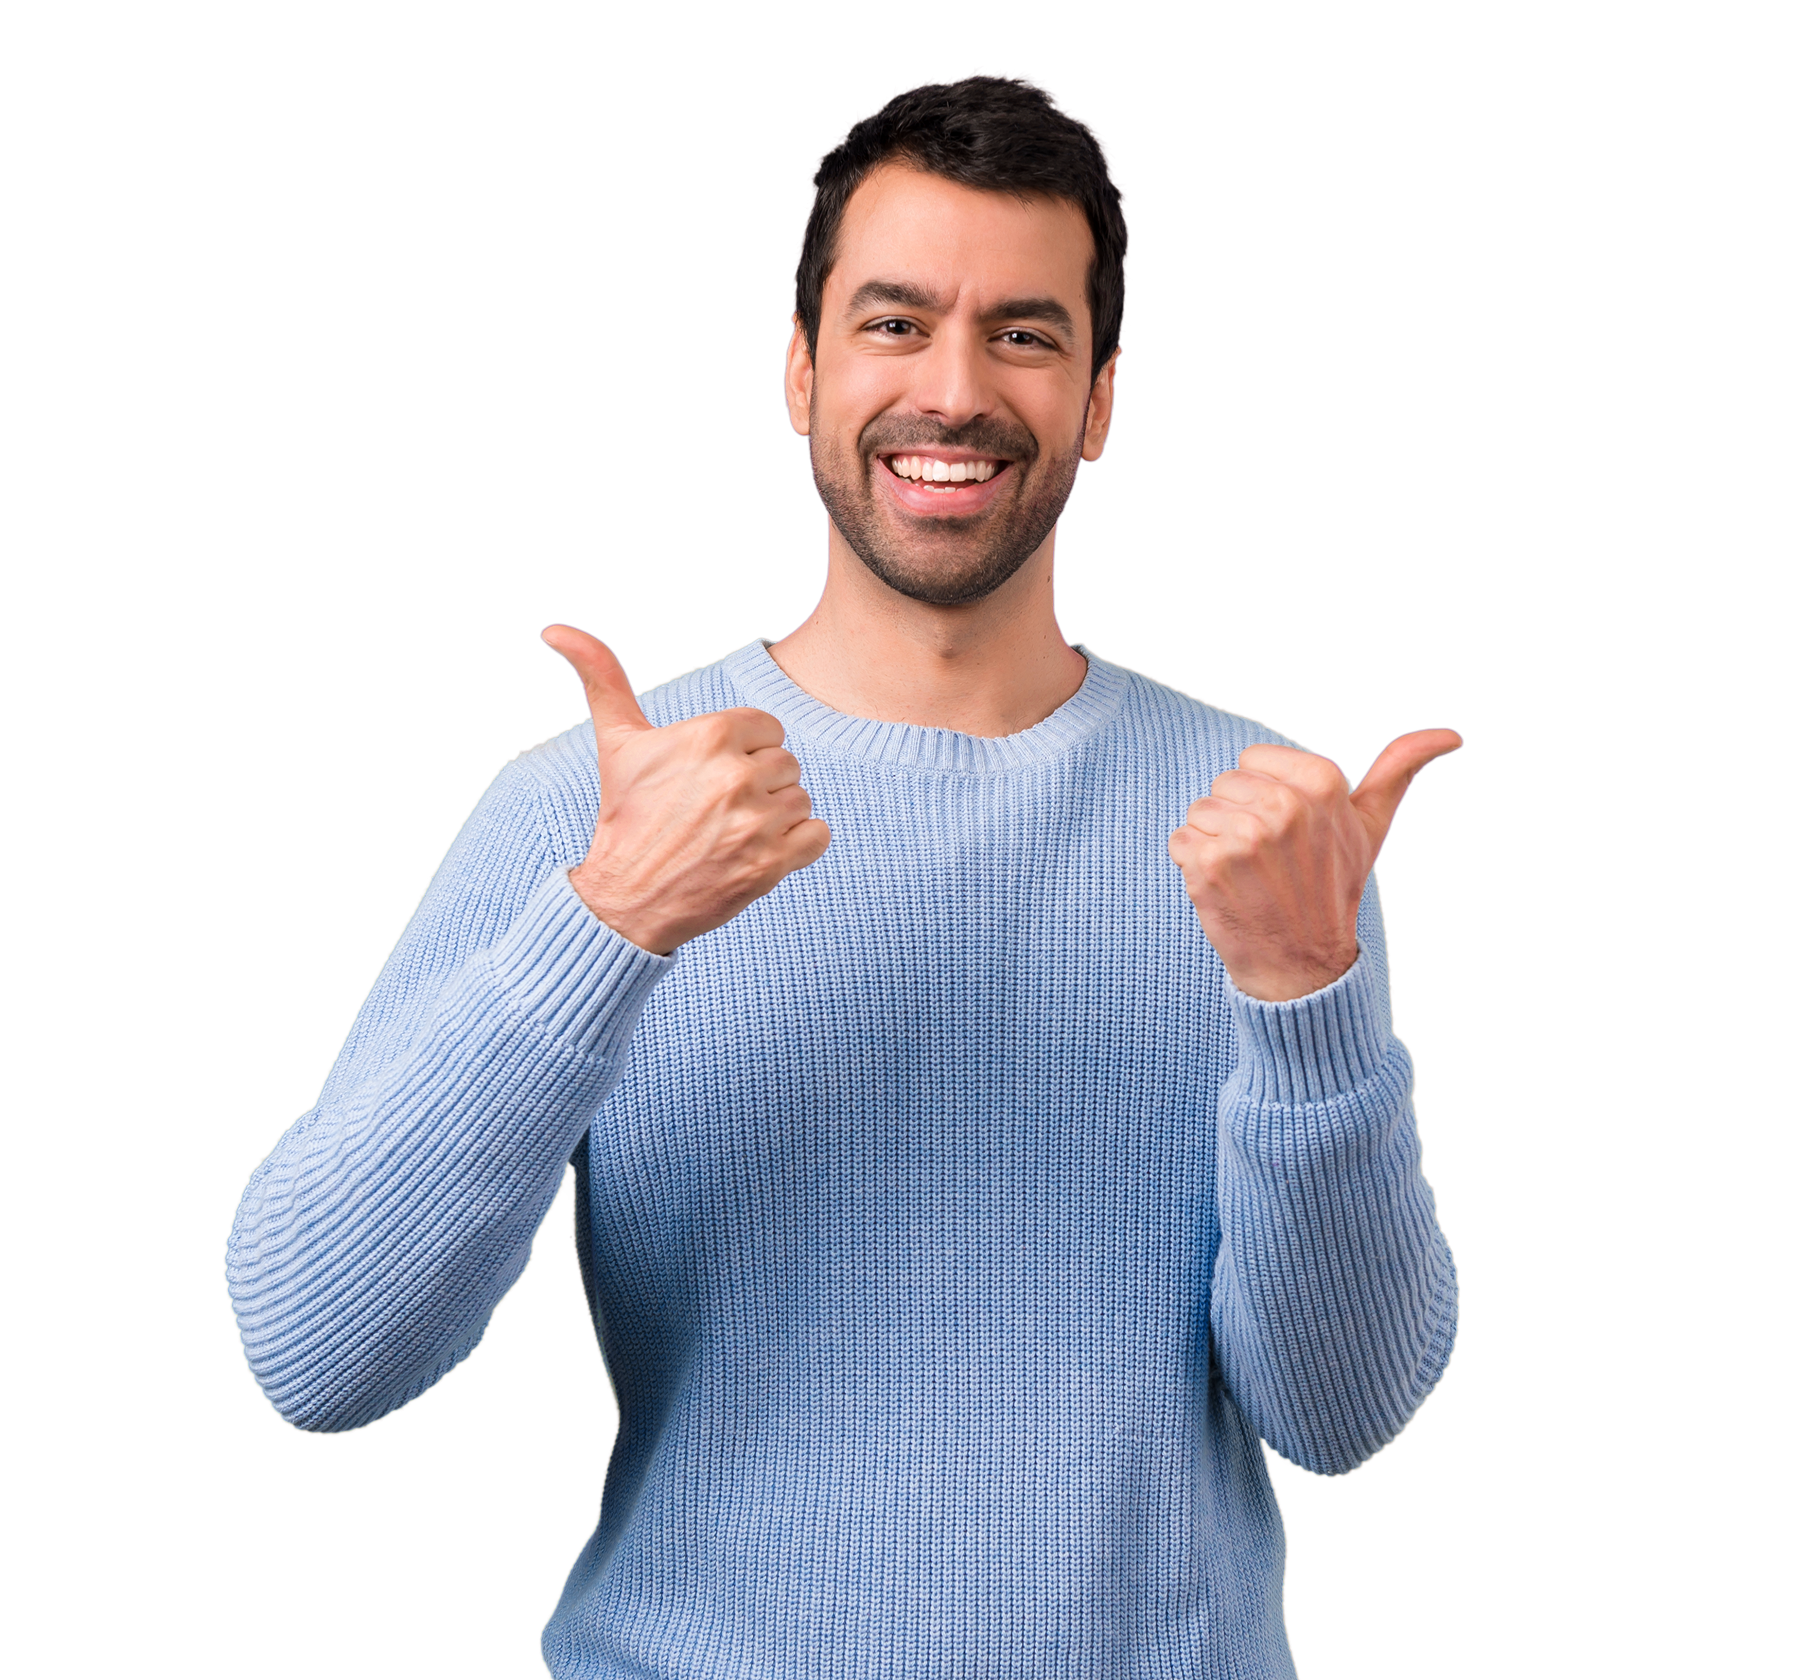
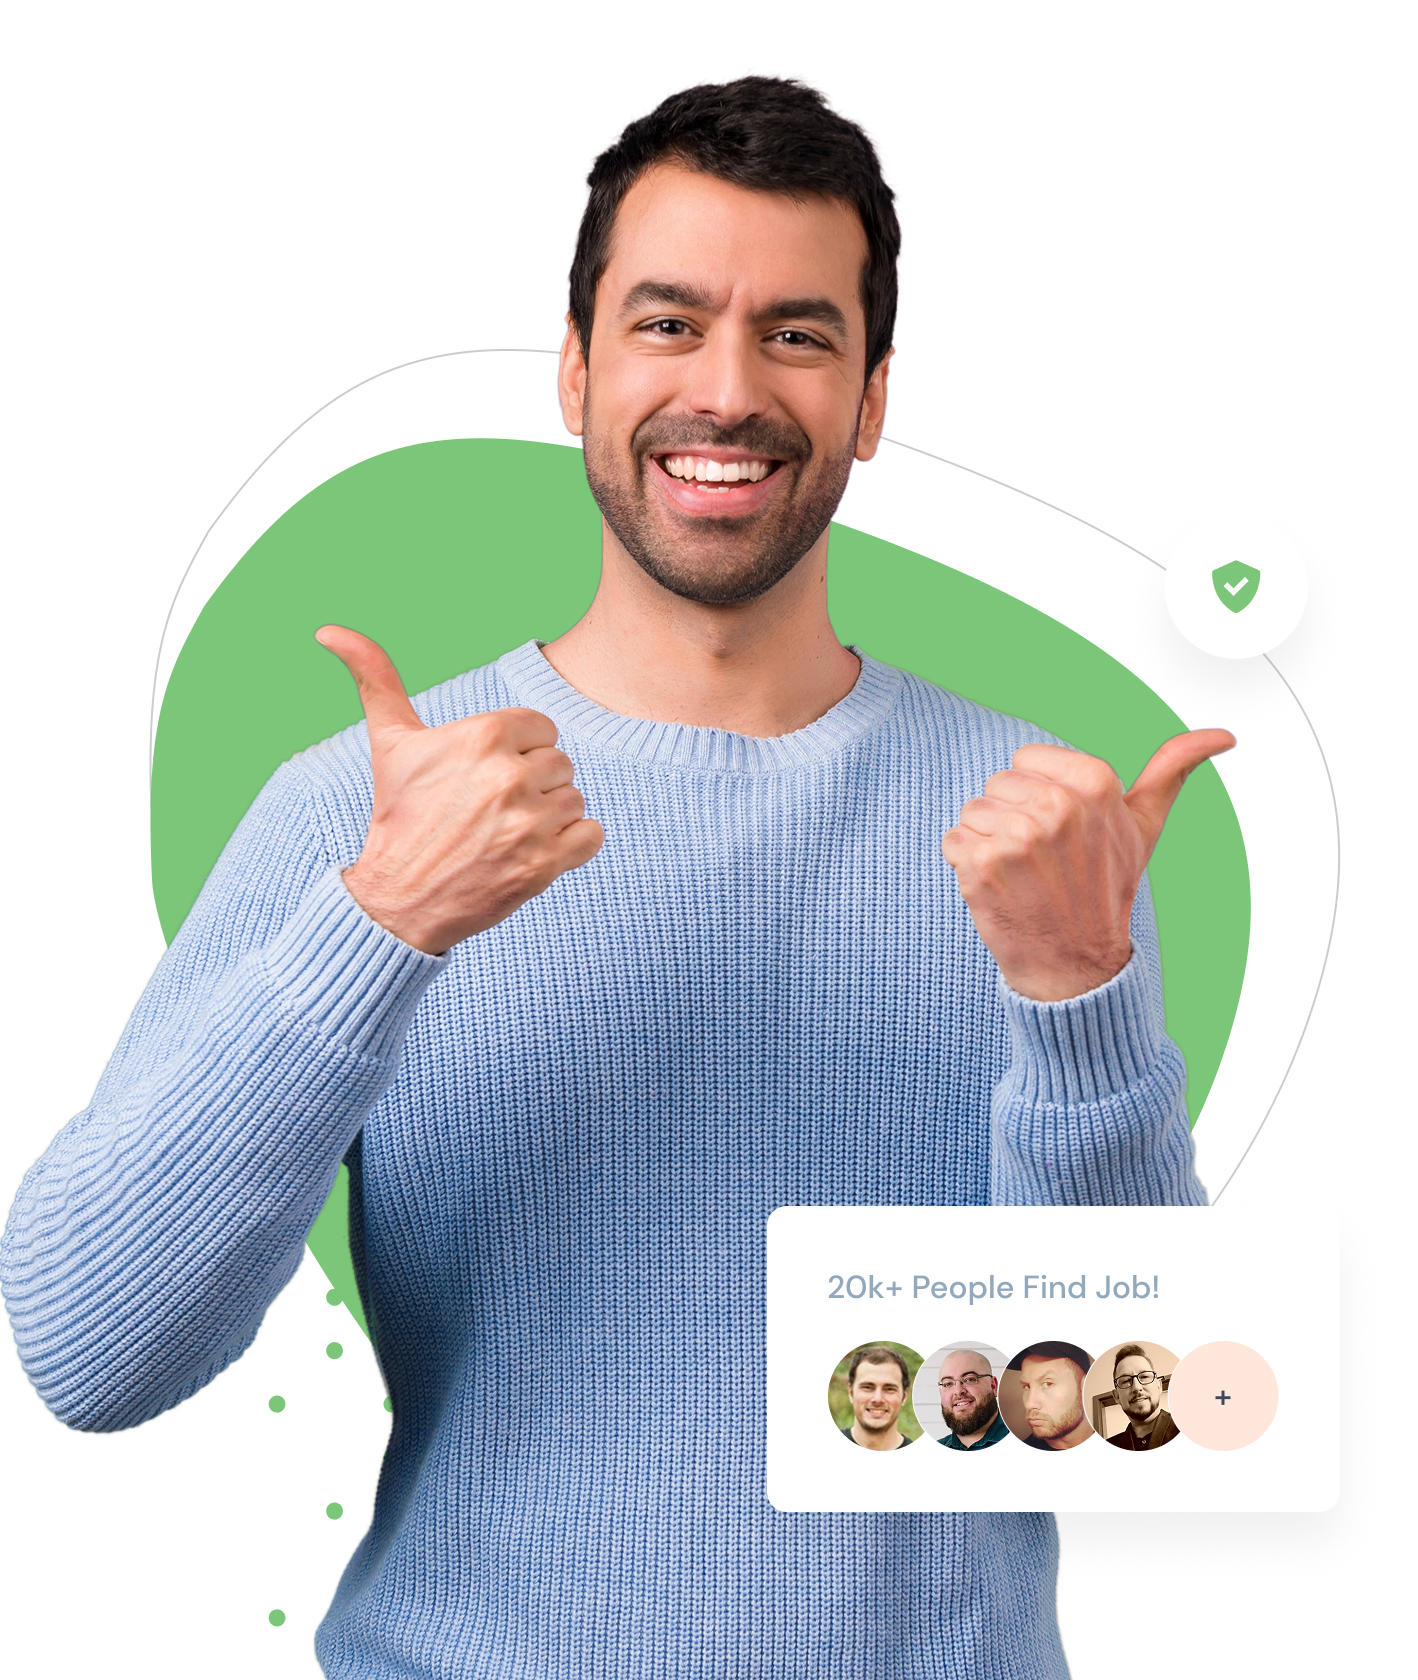
feat: redesign homepage with new hero, brand section, and job category cards
- Moved Header into separate component (components/organisms/Header)
- Reworked hero section layout and styling
- Added Section 2 with company brand logos
- Added Section 3 with job category cards and group-hover interactions
- Refactored ImageWithVector usage
- Cleaned up old hero section implementation

diff --git a/app/page.tsx b/app/page.tsx
@@ -2,6 +2,17 @@ import { Poppins } from "next/font/google";
 import Button from "./components/atoms/Button/Button";
 import Header from "./components/organisms/Header/Header";
 import ImageWithVector from "./components/molecules/ImageWithVector";
+import Image from "next/image";
+import {
+  FaDollarSign,
+  FaEdit,
+  FaPenNib,
+  FaHeadphones,
+  FaArrowRight,
+} from "react-icons/fa";
+import { AiFillSound } from "react-icons/ai";
+import { BsCameraFill } from "react-icons/bs";
+import { IoMdPeople } from "react-icons/io";
 
 const poppins = Poppins({
   subsets: ["latin"],
@@ -13,26 +24,31 @@ export default function Home() {
     <>
       <Header />
       <main>
-        {/* SECTION 1 */}
-        <section className="container mx-auto flex items-center justify-between px-6 md:px-[62px]">
-          {/* FIND YOUR JOB */}
-          <div className="flex max-w-[375px] flex-col gap-10 md:max-w-[644px]">
-            <h1
-              className={`${poppins.className} text-dark text-[30px] leading-10 font-extrabold md:text-[80px] md:leading-[100px]`}
-            >
-              Find Every Job in One Platform
-            </h1>
-            <div className="flex items-center justify-between rounded-[10px] bg-white p-3 shadow">
+        {/* SECTION 1 HERO SECTION */}
+        {/* FIND YOUR JOB */}
+        <section className="bg-light container mx-auto flex flex-col items-start justify-between gap-[30px] px-6">
+          <div className="flex flex-col gap-6">
+            {/* TITLE */}
+            <div className="max-w-[241px]">
+              <h1
+                className={`${poppins.className} text-dark text-[30px] leading-10 font-extrabold`}
+              >
+                Find Every Job in One Platform
+              </h1>
+            </div>
+            {/* FORM SEARCHING */}
+            <div className="flex flex-row items-center gap-1 rounded-[10px] bg-white px-3.5 py-3 shadow">
               <input
-                className="placeholder-muted/50 text-muted text-[16px] font-bold outline-0"
+                className="placeholder-muted/50 text-muted w-full text-[14px] font-bold outline-0"
                 placeholder="Job / Position"
               />
               <input
-                className="placeholder-muted/50 text-muted text-[16px] font-bold outline-0"
+                className="placeholder-muted/50 text-muted w-full text-[14px] font-bold outline-0"
                 placeholder="Location"
               />
               <Button className="button button-secondary">Search</Button>
             </div>
+
             <div className="flex items-center gap-5">
               <h2 className="text-primary text-[16px] font-medium">
                 Recent Search :
@@ -53,8 +69,159 @@ export default function Home() {
               </ul>
             </div>
           </div>
-          <div>
-            <ImageWithVector />
+          <ImageWithVector />
+        </section>
+
+        {/* SECTION 2 SUPPORT */}
+        <section className="container mx-auto grid grid-cols-2 gap-8 px-6 py-[67px] md:grid-cols-3 lg:grid-cols-6">
+          <div className="relative h-[27px] w-full">
+            <Image src="/assets/slack.svg" alt="Slack" fill />
+          </div>
+          <div className="relative h-[27px] w-full">
+            <Image src="/assets/netflix.svg" alt="Netflix" fill />
+          </div>
+          <div className="relative h-[27px] w-full">
+            <Image src="/assets/fitbit.svg" alt="Fitbit" fill />
+          </div>
+          <div className="relative h-[27px] w-full">
+            <Image src="/assets/google.svg" alt="Google" fill />
+          </div>
+          <div className="relative h-[27px] w-full">
+            <Image src="/assets/uber.svg" alt="Uber" fill />
+          </div>
+          <div className="relative h-[27px] w-full">
+            <Image src="/assets/airbnb.svg" alt="Airbnb" fill />
+          </div>
+        </section>
+
+        {/* SECTION 3 CARD SESSION */}
+        <section className="container mx-auto flex flex-col px-8">
+          <h2
+            className={`${poppins.className} text-dark text-center text-[30px] leading-9 font-extrabold`}
+          >
+            Browse by
+            <br /> Job Categories
+          </h2>
+          <div className="grid grid-cols-1 gap-5 md:grid-cols-2 lg:grid-cols-4">
+            {/* CARD */}
+            {/* 1 */}
+            <div className="group rounded-lg border border-gray-100 bg-white p-5 shadow-md hover:bg-gray-100">
+              <div className="group-hover:bg-primary group-hover:text-light bg-primary/30 text-primary w-fit rounded-full p-4 text-[30px]">
+                <AiFillSound />
+              </div>
+              <h3 className="text-dark pt-10 text-[20px] leading-10 font-semibold">
+                Digital Marketing
+              </h3>
+              <div className="flex items-center justify-between">
+                <span className="text-muted">143 Jobs Opened</span>
+                <button className="text-dark text-[16px]">
+                  <FaArrowRight />
+                </button>
+              </div>
+            </div>
+            {/* 2 */}
+            <div className="group rounded-lg border border-gray-100 bg-white p-5 shadow-md hover:bg-gray-100">
+              <div className="group-hover:bg-primary group-hover:text-light bg-primary/30 text-primary w-fit rounded-full p-4 text-[30px]">
+                <FaPenNib />
+              </div>
+              <h3 className="pt-10 text-[20px] leading-10 font-semibold">
+                Art & Design
+              </h3>
+              <div className="flex items-center justify-between">
+                <span className="text-muted">110 Jobs Opened</span>
+                <button className="text-dark text-[16px]">
+                  <FaArrowRight />
+                </button>
+              </div>
+            </div>
+            {/* 3 */}
+            <div className="group rounded-lg border border-gray-100 bg-white p-5 shadow-md hover:bg-gray-100">
+              <div className="group-hover:bg-primary group-hover:text-light bg-primary/30 text-primary w-fit rounded-full p-4 text-[30px]">
+                <FaDollarSign />
+              </div>
+              <h3 className="pt-10 text-[20px] leading-10 font-semibold">
+                Accounting
+              </h3>
+              <div className="flex items-center justify-between">
+                <span className="text-muted">155 Jobs Opened</span>
+                <button className="text-dark text-[16px]">
+                  <FaArrowRight />
+                </button>
+              </div>
+            </div>
+            {/* 4 */}
+            <div className="group rounded-lg border border-gray-100 bg-white p-5 shadow-md hover:bg-gray-100">
+              <div className="group-hover:bg-primary group-hover:text-light bg-primary/30 text-primary w-fit rounded-full p-4 text-[30px]">
+                <BsCameraFill />
+              </div>
+              <h3 className="pt-10 text-[20px] leading-10 font-semibold">
+                Photography
+              </h3>
+              <div className="flex items-center justify-between">
+                <span className="text-muted">95 Jobs Opened</span>
+                <button className="text-dark text-[16px]">
+                  <FaArrowRight />
+                </button>
+              </div>
+            </div>
+            {/* 5 */}
+            <div className="group rounded-lg border border-gray-100 bg-white p-5 shadow-md hover:bg-gray-100">
+              <div className="group-hover:bg-primary group-hover:text-light bg-primary/30 text-primary w-fit rounded-full p-4 text-[30px]">
+                <FaEdit />
+              </div>
+              <h3 className="pt-10 text-[20px] leading-10 font-semibold">
+                Copy Writing
+              </h3>
+              <div className="flex items-center justify-between">
+                <span className="text-muted">113 Jobs Opened</span>
+                <button className="text-dark text-[16px]">
+                  <FaArrowRight />
+                </button>
+              </div>
+            </div>
+            {/* 6 */}
+            <div className="group rounded-lg border border-gray-100 bg-white p-5 shadow-md hover:bg-gray-100">
+              <div className="group-hover:bg-primary group-hover:text-light bg-primary/30 text-primary w-fit rounded-full p-4 text-[30px]">
+                <FaHeadphones />
+              </div>
+              <h3 className="pt-10 text-[20px] leading-10 font-semibold">
+                Music
+              </h3>
+              <div className="flex items-center justify-between">
+                <span className="text-muted">143 Jobs Opened</span>
+                <button className="text-dark text-[16px]">
+                  <FaArrowRight />
+                </button>
+              </div>
+            </div>
+            {/* 7 */}
+            <div className="group rounded-lg border border-gray-100 bg-white p-5 shadow-md hover:bg-gray-100">
+              <div className="group-hover:bg-primary group-hover:text-light bg-primary/30 text-primary w-fit rounded-full p-4 text-[30px]">
+                <IoMdPeople />
+              </div>
+              <h3 className="pt-10 text-[20px] leading-10 font-semibold">
+                Human Resource
+              </h3>
+              <div className="flex items-center justify-between">
+                <span className="text-muted">55 Jobs Opened</span>
+                <button className="text-dark text-[16px]">
+                  <FaArrowRight />
+                </button>
+              </div>
+            </div>
+            {/* 8 */}
+            <div className="border-primary bg-primary rounded-lg border p-10 shadow-md">
+              <div className="flex items-center justify-between py-3">
+                <span className="text-light text-[25px]">
+                  Explore <br />
+                  30 More
+                  <br /> Categories
+                </span>
+                <button className="text-light text-20px]">
+                  <FaArrowRight />
+                </button>
+              </div>
+            </div>
           </div>
         </section>
       </main>

diff --git a/app/components/molecules/ImageWithVector.tsx b/app/components/molecules/ImageWithVector.tsx
@@ -2,19 +2,8 @@ import Image from "next/image";
 
 const ImageWithVector = () => {
   return (
-    <div className="h-[800px] w-[800px]">
-      <div className="relative z-20">
-        <Image
-          src={"/man.png"}
-          alt={"Man"}
-          width={800}
-          height={800}
-          className="absolute inset-0 object-cover"
-        />
-      </div>
-      <div className="relative z-10 rotate-20 rounded-tl-[175px] rounded-tr-[150px] rounded-br-[150px] rounded-bl-[300px] border-t border-r border-l border-black/10">
-        <div className="bg-secondary mx-5 mt-5 rounded-tl-[175px] rounded-tr-[150px] rounded-br-[150px] rounded-bl-[300px] p-[180px]"></div>
-      </div>
+    <div className="relative mx-auto h-[378] w-[306px] md:h-[620px] md:w-[600px] lg:h-[840px] lg:w-[940px]">
+      <Image src={"/man.png"} alt={"Man"} fill />
     </div>
   );
 };

diff --git a/app/layout.tsx b/app/layout.tsx
@@ -19,9 +19,7 @@ export default function RootLayout({
 }>) {
   return (
     <html lang="en">
-      <body className={`${dmSans.className} bg-light antialiased`}>
-        {children}
-      </body>
+      <body className={`${dmSans.className} antialiased`}>{children}</body>
     </html>
   );
 }

diff --git a/app/globals.css b/app/globals.css
@@ -19,7 +19,7 @@
 }
 
 .button {
-    @apply rounded-[10px] px-10 py-[22px] text-[16px] font-bold cursor-pointer;
+    @apply rounded-[10px] px-[30px] py-4 text-[12px] font-bold cursor-pointer;
 }
 
 .button-primary {
